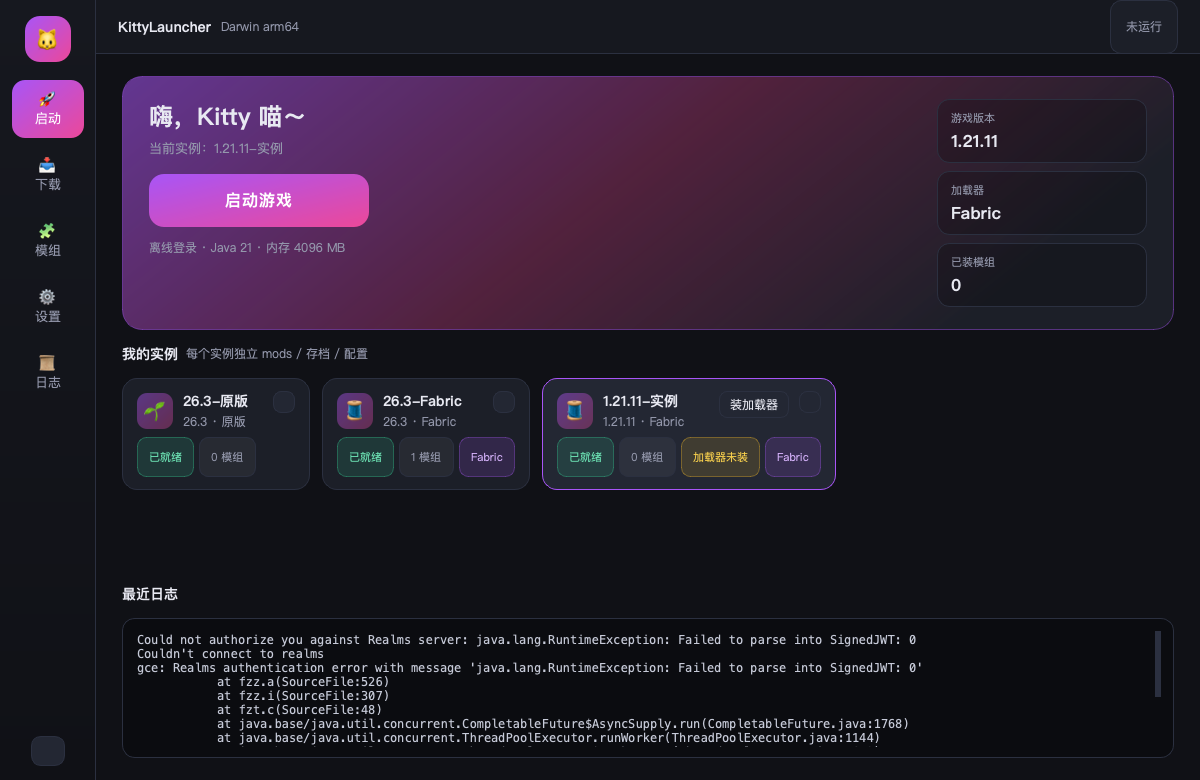
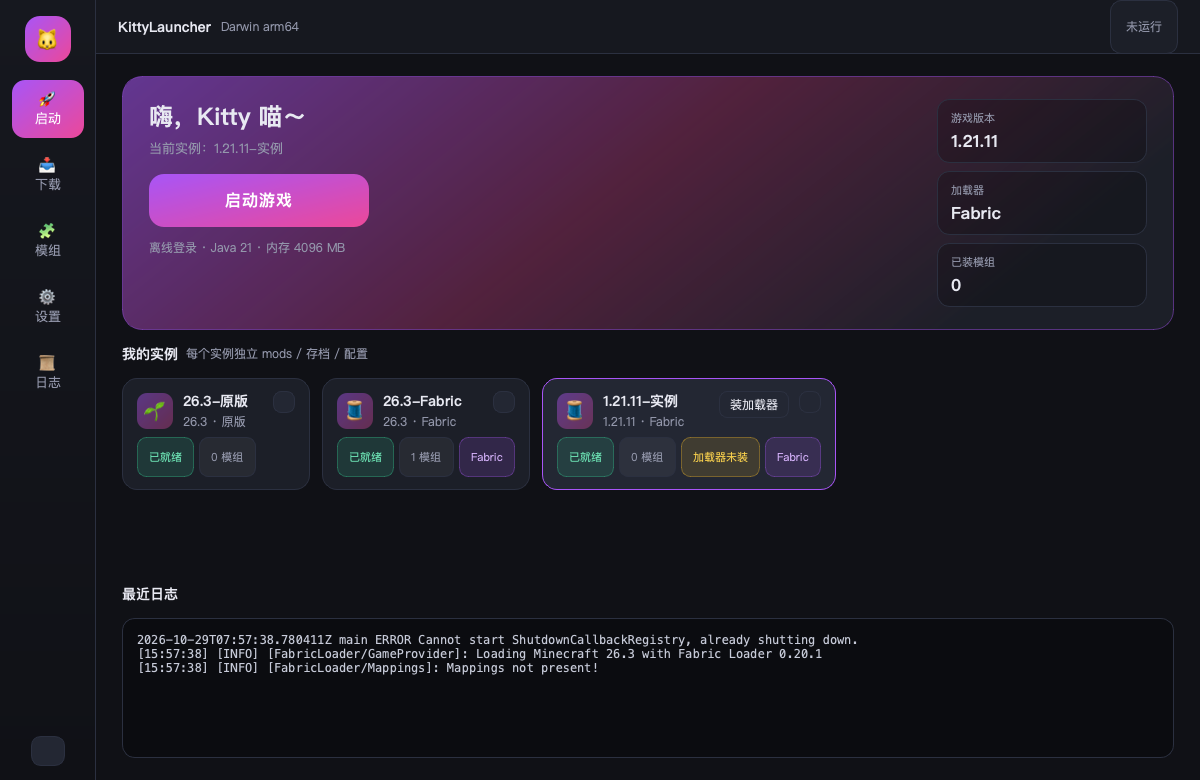
fix: 游戏退出后启动按钮卡在灰态——进程状态变化时刷新启动页，并区分正常退出/异常退出

Changed region(s): [[0.0925, 0.8, 0.7708, 0.9538], [0.9558, 0.8, 0.9867, 0.8923]]

diff --git a/kitty/main.py b/kitty/main.py
@@ -35,6 +35,14 @@ from kitty import theme  # noqa: E402
 from kitty.widgets import NavButton, Toast, elide  # noqa: E402
 
 
+def _exit_is_normal(exit_info: dict) -> bool:
+    """正常退出：退出码 0 / 我们自己点了「结束游戏」/ 被信号终止（143 = 128+15）。"""
+    if exit_info.get("userStopped"):
+        return True
+    code = exit_info.get("code")
+    return code in (0, None, -15, -2, 130, 143)
+
+
 class App(QMainWindow):
     def __init__(self, dark: bool = True):
         super().__init__()
@@ -45,6 +53,7 @@ class App(QMainWindow):
         self.log_seq = 0
         self.boot_data = core.bootstrap()
         self._last_job_state = None
+        self._last_running = None
 
         root = QWidget()
         root.setObjectName("Root")
@@ -196,9 +205,12 @@ class App(QMainWindow):
                 fn(self.boot_data)
             except Exception as exc:  # noqa: BLE001
                 core.log(f"[UI] {key} 刷新异常：{exc}")
-        game = self.boot_data["game"]
-        if game["running"]:
-            self.game_chip.setText("运行中 · " + game["instance"])
+        self._apply_game_chip(self.boot_data["game"])
+        self._last_running = self.boot_data["game"]["running"]
+
+    def _apply_game_chip(self, game: dict) -> None:
+        if game.get("running"):
+            self.game_chip.setText("运行中 · " + game.get("instance", ""))
             self.game_chip.setObjectName("ChipOn")
         else:
             self.game_chip.setText("未运行")
@@ -303,8 +315,30 @@ class App(QMainWindow):
             self.pages["download"].on_job(job)
         except Exception:  # noqa: BLE001
             pass
+        self._sync_game_state()
+
+    def _sync_game_state(self) -> None:
+        """游戏进程状态变了就把启动页整块刷一遍，否则按钮会卡在「游戏运行中」的灰态。"""
         game = core.game_status()
-        self.game_chip.setText(("运行中 · " + game["instance"]) if game["running"] else "未运行")
+        self._apply_game_chip(game)
+
+        running = bool(game.get("running"))
+        exit_info = core.consume_exit()
+        if exit_info:
+            name = exit_info.get("instance", "")
+            if _exit_is_normal(exit_info):
+                self.toast(f"游戏已退出（{name}）", "ok")
+            else:
+                self.toast(f"游戏异常退出，代码 {exit_info.get('code')}，详情看日志页", "err")
+
+        if running != self._last_running:
+            self._last_running = running
+            self.boot_data = core.bootstrap()
+            self.boot_data["game"] = game
+            try:
+                self.pages["launch"].refresh(self.boot_data)
+            except Exception as exc:  # noqa: BLE001
+                core.log(f"[UI] 启动页刷新失败：{exc}")
 
     def tick_logs(self) -> None:
         data = core.get_logs(self.log_seq)

diff --git a/kitty/core.py b/kitty/core.py
@@ -554,6 +554,8 @@ _log_seq = 0
 _log_lock = threading.Lock()
 _current_proc: subprocess.Popen | None = None
 _current_instance = ""
+_last_exit: dict = {"code": None, "instance": "", "at": 0, "seen": True, "userStopped": False}
+_stop_requested = False
 
 
 _XML_MSG = re.compile(r"<log4j:Message><!\[CDATA\[(.*?)\]\]></log4j:Message>", re.S)
@@ -669,7 +671,18 @@ def launch(instance: str) -> dict:
                         fh.write(clean.rstrip("\n") + "\n")
                         fh.flush()
         finally:
+            global _stop_requested
             code = proc.wait()
+            _last_exit.update(
+                {
+                    "code": code,
+                    "instance": inst["name"],
+                    "at": int(time.time()),
+                    "seen": False,
+                    "userStopped": _stop_requested,
+                }
+            )
+            _stop_requested = False
             log(f"===== 游戏退出，代码 {code} =====")
 
     threading.Thread(target=pump, name="log-pump", daemon=True).start()
@@ -677,9 +690,10 @@ def launch(instance: str) -> dict:
 
 
 def stop_game() -> dict:
-    global _current_proc
+    global _current_proc, _stop_requested
     if not _current_proc or _current_proc.poll() is not None:
         return {"error": "没有在跑的游戏"}
+    _stop_requested = True
     _current_proc.terminate()
     try:
         _current_proc.wait(timeout=10)
@@ -694,7 +708,16 @@ def game_status() -> dict:
         "running": running,
         "instance": _current_instance if running else "",
         "pid": _current_proc.pid if running and _current_proc else 0,
+        "lastExit": dict(_last_exit),
     }
+
+
+def consume_exit() -> dict | None:
+    """UI 取一次退出信息，取完标记已读，避免每轮都弹提示。"""
+    if _last_exit.get("seen"):
+        return None
+    _last_exit["seen"] = True
+    return dict(_last_exit)
 
 
 # ---------------------------------------------------------------- Modrinth
